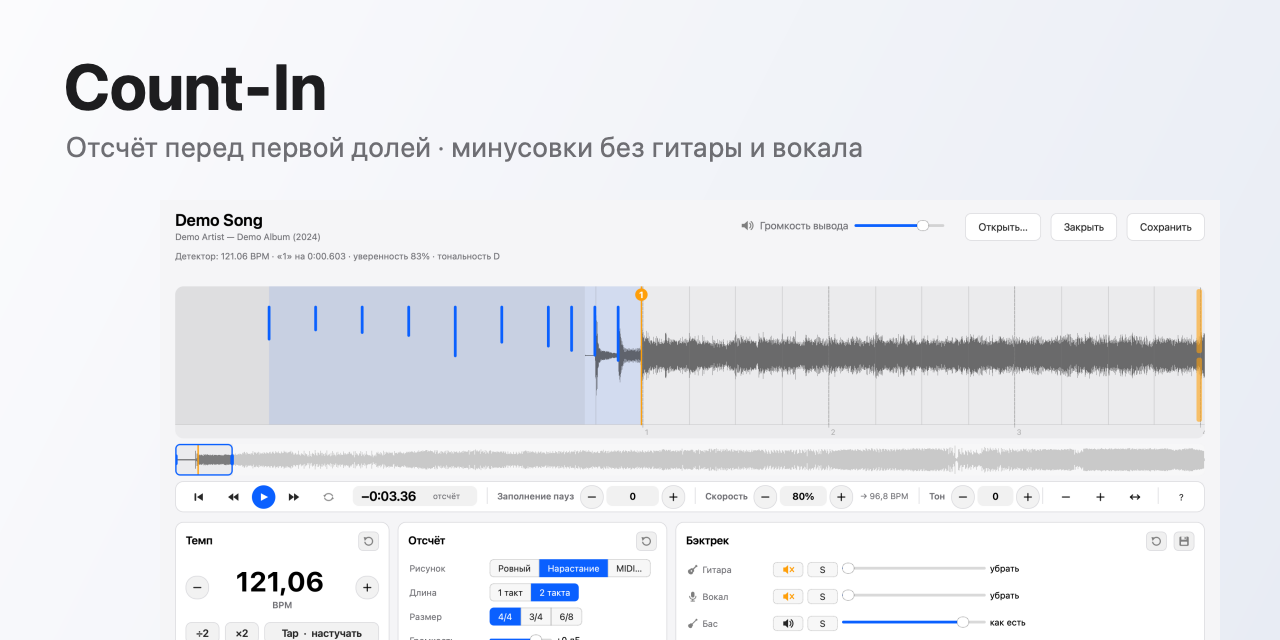
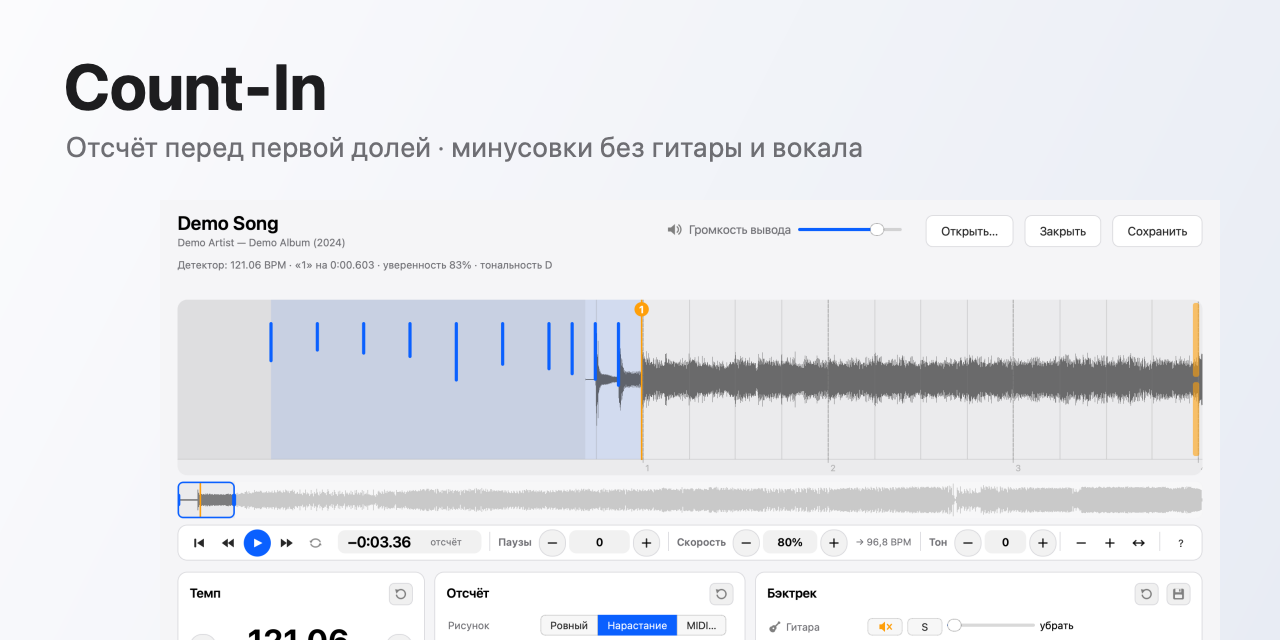
Narrower transport bar so the window fits a 13-inch MacBook; fresh screenshots

diff --git a/docs/ru/guide/index.html b/docs/ru/guide/index.html
@@ -46,7 +46,7 @@
 <main class="guide">
   <h1>Как работать с Count-In</h1>
   <p class="lead">Откройте песню, проверьте оранжевую «1», выберите отсчёт и сохраните. Остальное по желанию, и всё это описано ниже.</p>
-  <figure><img src="/guide/img/window.png" alt="Окно Count-In с выбранной паузой" width="1534" height="870"></figure>
+  <figure><img src="/guide/img/window.png" alt="Окно Count-In с выбранной паузой" width="1329" height="870"></figure>
   <ul class="toc">
     <li><a href="#s1">Первая доля и темп</a></li>
     <li><a href="#s2">Темп на слух (Tap)</a></li>

diff --git a/docs/guide/index.html b/docs/guide/index.html
@@ -46,7 +46,7 @@
 <main class="guide">
   <h1>How to use Count-In</h1>
   <p class="lead">Open a song, check the orange “1”, pick a count-in and save. Everything else is optional; this page walks through it.</p>
-  <figure><img src="/guide/img/window-en.png" alt="Count-In window with a selected pause" width="1534" height="870"></figure>
+  <figure><img src="/guide/img/window-en.png" alt="Count-In window with a selected pause" width="1329" height="870"></figure>
   <ul class="toc">
     <li><a href="#s1">First downbeat and tempo</a></li>
     <li><a href="#s2">Tap tempo</a></li>

diff --git a/docs/_guide.html b/docs/_guide.html
@@ -46,7 +46,7 @@
 <main class="guide">
   <h1>{{heading}}</h1>
   <p class="lead">{{lead}}</p>
-  <figure><img src="/guide/img/window{{sfx}}.png" alt="{{window_alt}}" width="1534" height="870"></figure>
+  <figure><img src="/guide/img/window{{sfx}}.png" alt="{{window_alt}}" width="1329" height="870"></figure>
   <ul class="toc">
 {{toc}}
   </ul>

diff --git a/src/countin/gui.py b/src/countin/gui.py
@@ -141,7 +141,7 @@ QFrame#busyPill { background: @SEP_CARD@; border: 1px solid @BORDER@; border-rad
 #pillText { font-size: 14px; font-weight: 600; }
 #pillNote { font-size: 14px; font-weight: 600; color: @WARN@; }
 QFrame#transport { background: @CARD@; border: 1px solid @BORDER@; border-radius: 12px; }
-QPushButton#tbtn { border: none; border-radius: 8px; background: transparent; min-width: 34px; min-height: 30px; padding: 0 6px; }
+QPushButton#tbtn { border: none; border-radius: 8px; background: transparent; min-width: 32px; min-height: 30px; padding: 0; }
 QPushButton#tbtn:hover { background: rgba(127,127,127,0.18); }
 QPushButton#tplay { border: none; border-radius: 17px; background: @ACCENT@; padding: 0;
                     min-width: 34px; max-width: 34px; min-height: 34px; max-height: 34px; }
@@ -3236,10 +3236,10 @@ class Window(QMainWindow):
             line = QFrame(objectName="vsep", fixedWidth=1, fixedHeight=24)  # short of the bar's edges
             return line
 
-        h.addSpacing(10)
+        h.addSpacing(6)
         h.addWidget(vsep())
-        h.addSpacing(10)
-        h.addWidget(QLabel(_("Заполнение пауз"), objectName="groupTitle"))
+        h.addSpacing(6)
+        h.addWidget(QLabel(_("Паузы"), objectName="groupTitle", toolTip=_("Заполнение пауз")))
         h.addSpacing(4)
 
         # − count + as in the tempo card: minus removes the current pause, plus makes one at the play position
@@ -3256,9 +3256,9 @@ class Window(QMainWindow):
         help_b.setFocusPolicy(Qt.TabFocus)
 
         # Speed: − percent +, slower with the pitch kept; steps of 5% from 50% to 100%; below 80% the stretch smears the sound
-        h.addSpacing(10)
+        h.addSpacing(6)
         h.addWidget(vsep())
-        h.addSpacing(10)
+        h.addSpacing(6)
         h.addWidget(QLabel(_("Скорость"), objectName="groupTitle"))
         h.addSpacing(4)
         h.addWidget(glyph_button("minus", _("Медленнее на 5%, тон не меняется"), lambda: self._set_speed(self.speed - 5), "round"))
@@ -3276,9 +3276,9 @@ class Window(QMainWindow):
         h.addWidget(self.speed_bpm_l)
 
         # Key: semitones up or down, tempo kept
-        h.addSpacing(10)
+        h.addSpacing(6)
         h.addWidget(vsep())
-        h.addSpacing(10)
+        h.addSpacing(6)
         h.addWidget(QLabel(_("Тон"), objectName="groupTitle"))
         h.addSpacing(4)
         h.addWidget(glyph_button("minus", _("На полтона ниже"), lambda: self._set_semis(self.semis - 1), "round"))

diff --git a/src/countin/i18n.py b/src/countin/i18n.py
@@ -208,6 +208,7 @@ EN = {
     "Разделяю отрывок": "Separating the excerpt",
     "Сборка отрывка": "Building the excerpt",
     "Сборка дорожек": "Building the parts",
+    "Паузы": "Pauses",
     "Чтобы собрать сет-лист, откройте или перетащите несколько песен сразу": "To make a set list, open or drop several songs at once",
     "Сет-лист: песня {i} из {n}": "Set list: song {i} of {n}",
     "Играть сначала": "Play Again",
